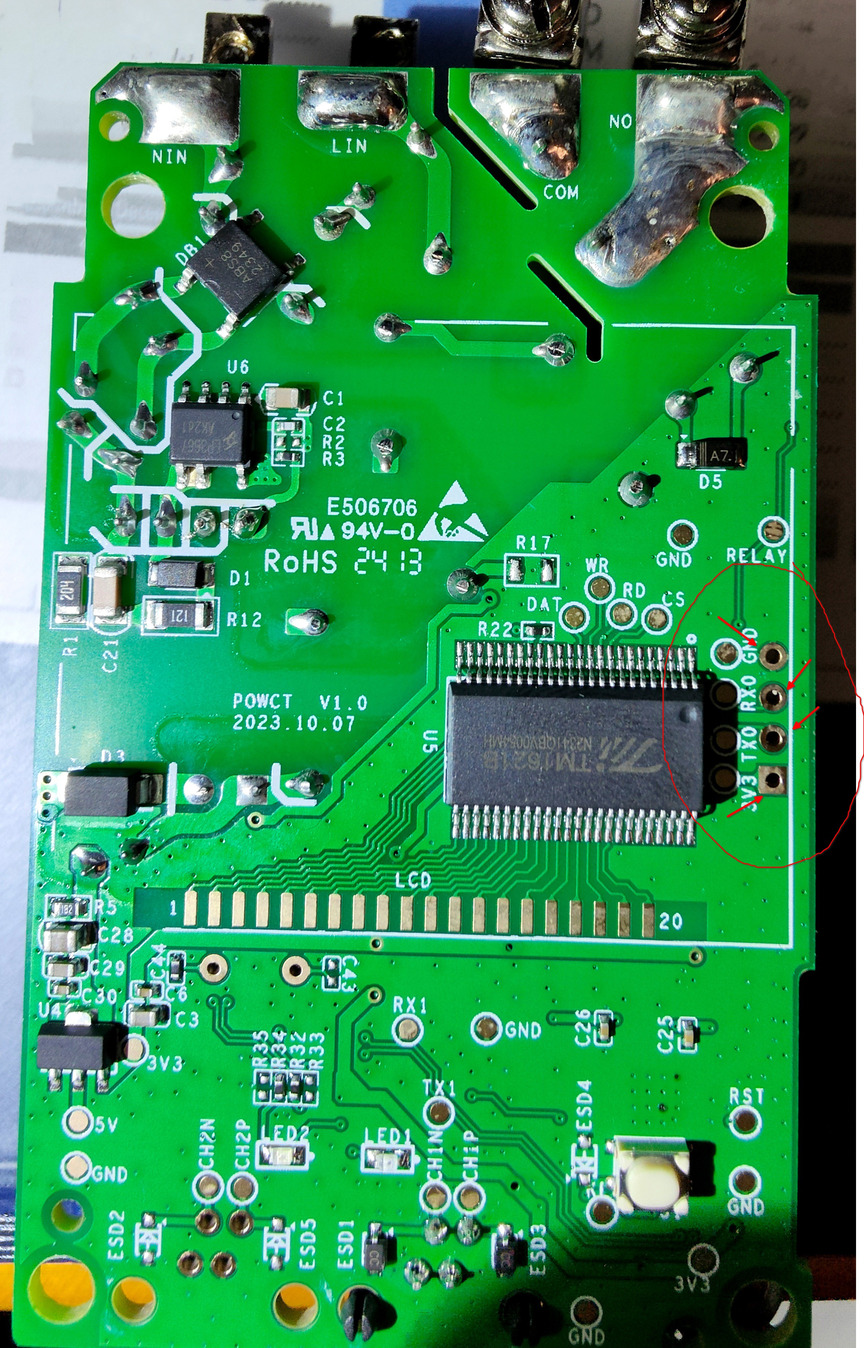
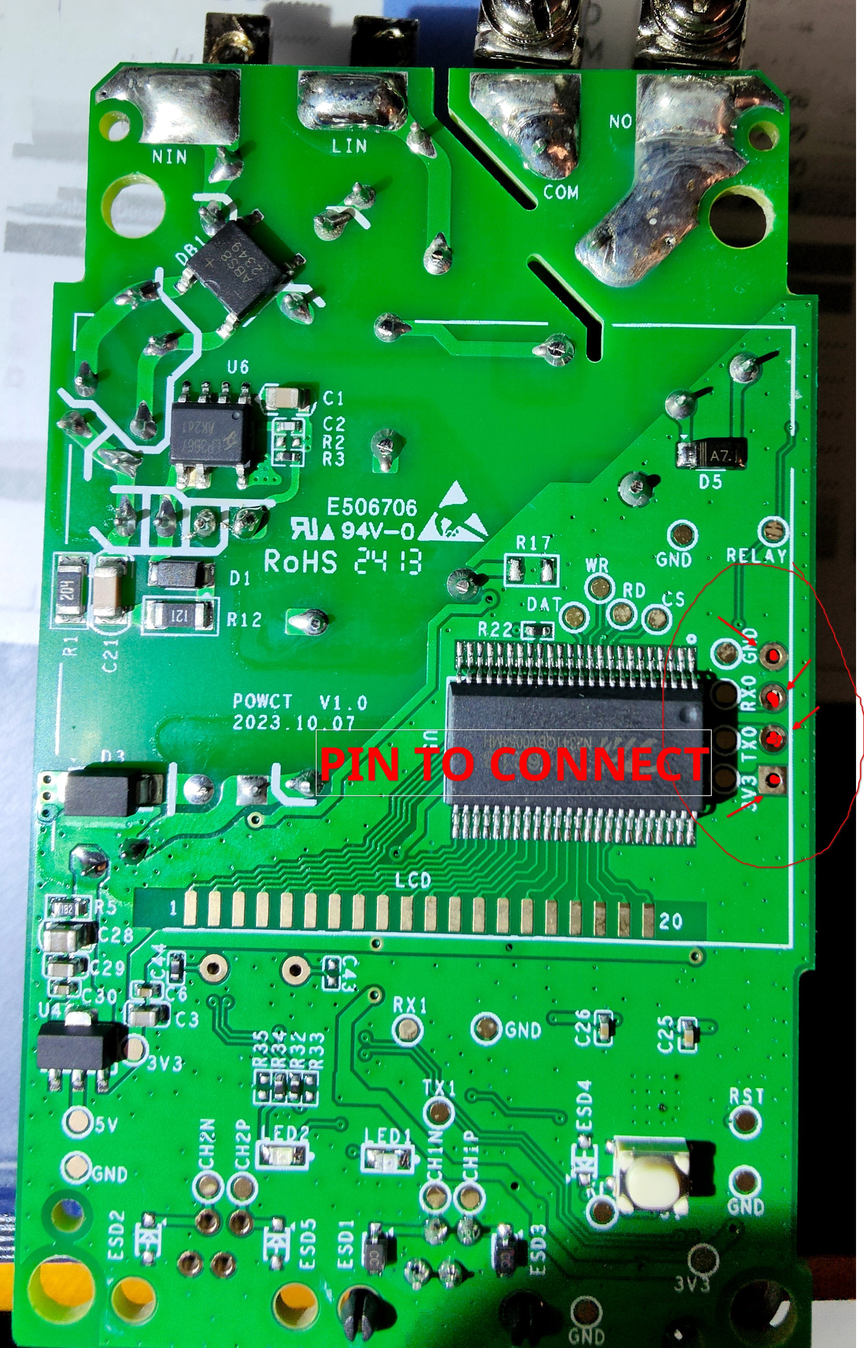
Add debug howto + update PCB image

Changed region(s): [[0.3703, 0.5288, 0.8333, 0.591], [0.895, 0.5288, 0.9259, 0.5599]]

diff --git a/README_ES.md b/README_ES.md
@@ -45,6 +45,7 @@ Para comenzar la instalación y configuración de mi dispositivo, consulte las g
 | :--- | :--- | :--- |
 | **Guía de Instalación** | Procedimiento completo para flashear e iniciar mi dispositivo. | **[Doc/INSTALL.md](Doc/INSTALL\_ES.md)** |
 | **Guía de Calibración** | Instrucciones para realizar una calibración precisa de mis mediciones. | **[Doc/CALIBRATION.md](Doc/CALIBRATION\_ES.md)** |
+| **Guía de Depuración de Registros** | Una imagen vale más que mil palabras... | **[Doc/DEBUG.md](Doc/DEBUG.md)** |
 | **Detalles de Configuración** | Explicaciones detalladas sobre las opciones específicas del Sonoff POW CT y el uso de las funciones de **depuración** avanzadas. | **[Doc/SONOFF\_POWCT\_CONFIG.md](Doc/SONOFF\_POWCT\_CONFIG.md)** |
 | **Hoja de Datos** | Manual técnico del circuito de medición de energía **CSE7761**. | **[Doc/CSE7761UserManual\_1672133056.pdf](Doc/CSE7761UserManual\_1672133056.pdf)** |
 

diff --git a/README_FR.md b/README_FR.md
@@ -45,6 +45,7 @@ Pour commencer l'installation et la configuration de mon appareil, veuillez cons
 | :--- | :--- | :--- |
 | **Guide d'Installation** | Procédure complète pour flasher et démarrer mon appareil. | **[Doc/INSTALL.md](Doc/INSTALL\_FR.md)** |
 | **Guide de Calibrage** | Instructions pour effectuer un calibrage précis de mes mesures. | **[Doc/CALIBRATION.md](Doc/CALIBRATION\_FR.md)** |
+| **Guide de Debug des registres** | Une image vaut mieux qu'un long discourt... | **[Doc/DEBUG.md](Doc/DEBUG.md)** |
 | **Détails de Configuration** | Explications détaillées sur les options spécifiques au Sonoff POW CT et l'utilisation des **fonctions de debug** avancées. | **[Doc/SONOFF\_POWCT\_CONFIG.md](Doc/SONOFF\_POWCT\_CONFIG.md)** |
 | **Datasheet** | Manuel technique du circuit de mesure d'énergie **CSE7761**. | **[Doc/CSE7761UserManual\_1672133056.pdf](Doc/CSE7761UserManual\_1672133056.pdf)** |
 

diff --git a/README.md b/README.md
@@ -45,6 +45,7 @@ To begin the installation and configuration of my device, please consult the det
 | :--- | :--- | :--- |
 | **Installation Guide** | Complete procedure for flashing and starting my device. | **[Doc/INSTALL.md](Doc/INSTALL.md)** |
 | **Calibration Guide** | Instructions for performing precise calibration of my measurements. | **[Doc/CALIBRATION.md](Doc/CALIBRATION.md)** |
+| **Register Debug Guide** | A picture is worth a thousand words... | **[Doc/DEBUG.md](Doc/DEBUG.md)** |
 | **Configuration Details** | Detailed explanations of the Sonoff POW CT specific options and the use of advanced **debug functions**. | **[Doc/SONOFF\_POWCT\_CONFIG.md](Doc/SONOFF\_POWCT\_CONFIG.md)** |
 | **Datasheet** | Technical manual for the **CSE7761** energy measurement circuit. | **[Doc/CSE7761UserManual\_1672133056.pdf](Doc/CSE7761UserManual\_1672133056.pdf)** |
 
